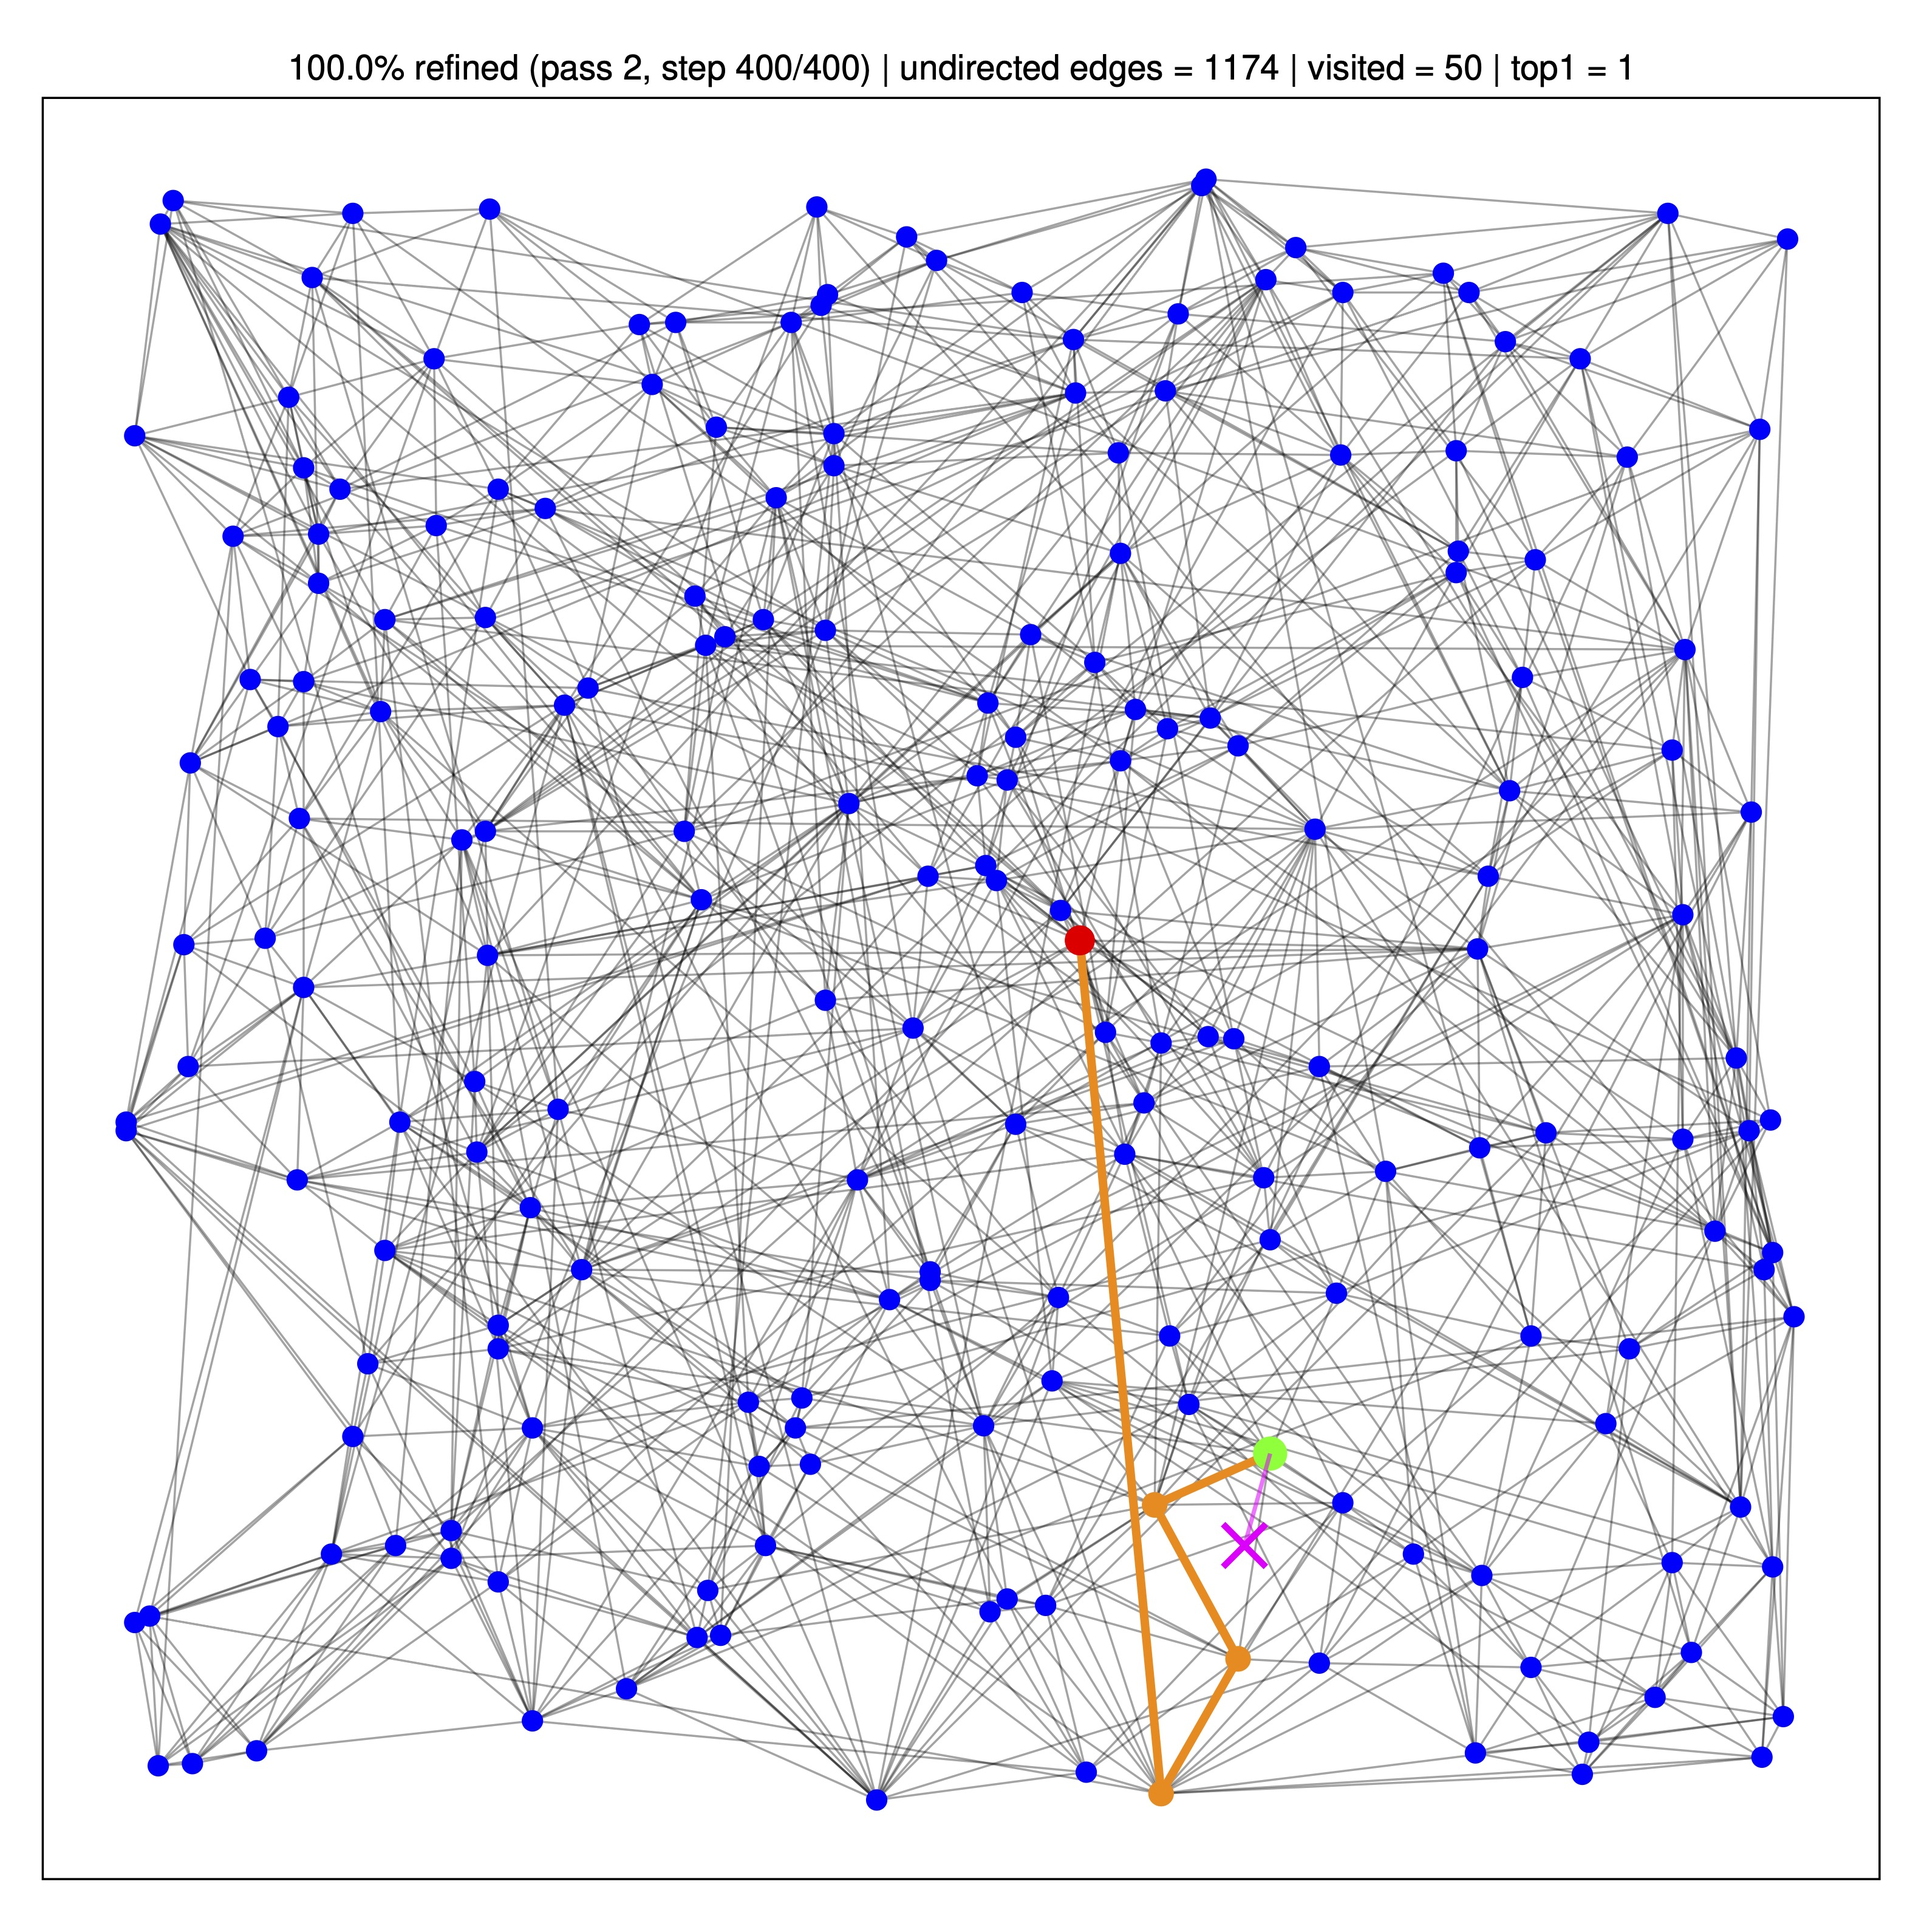
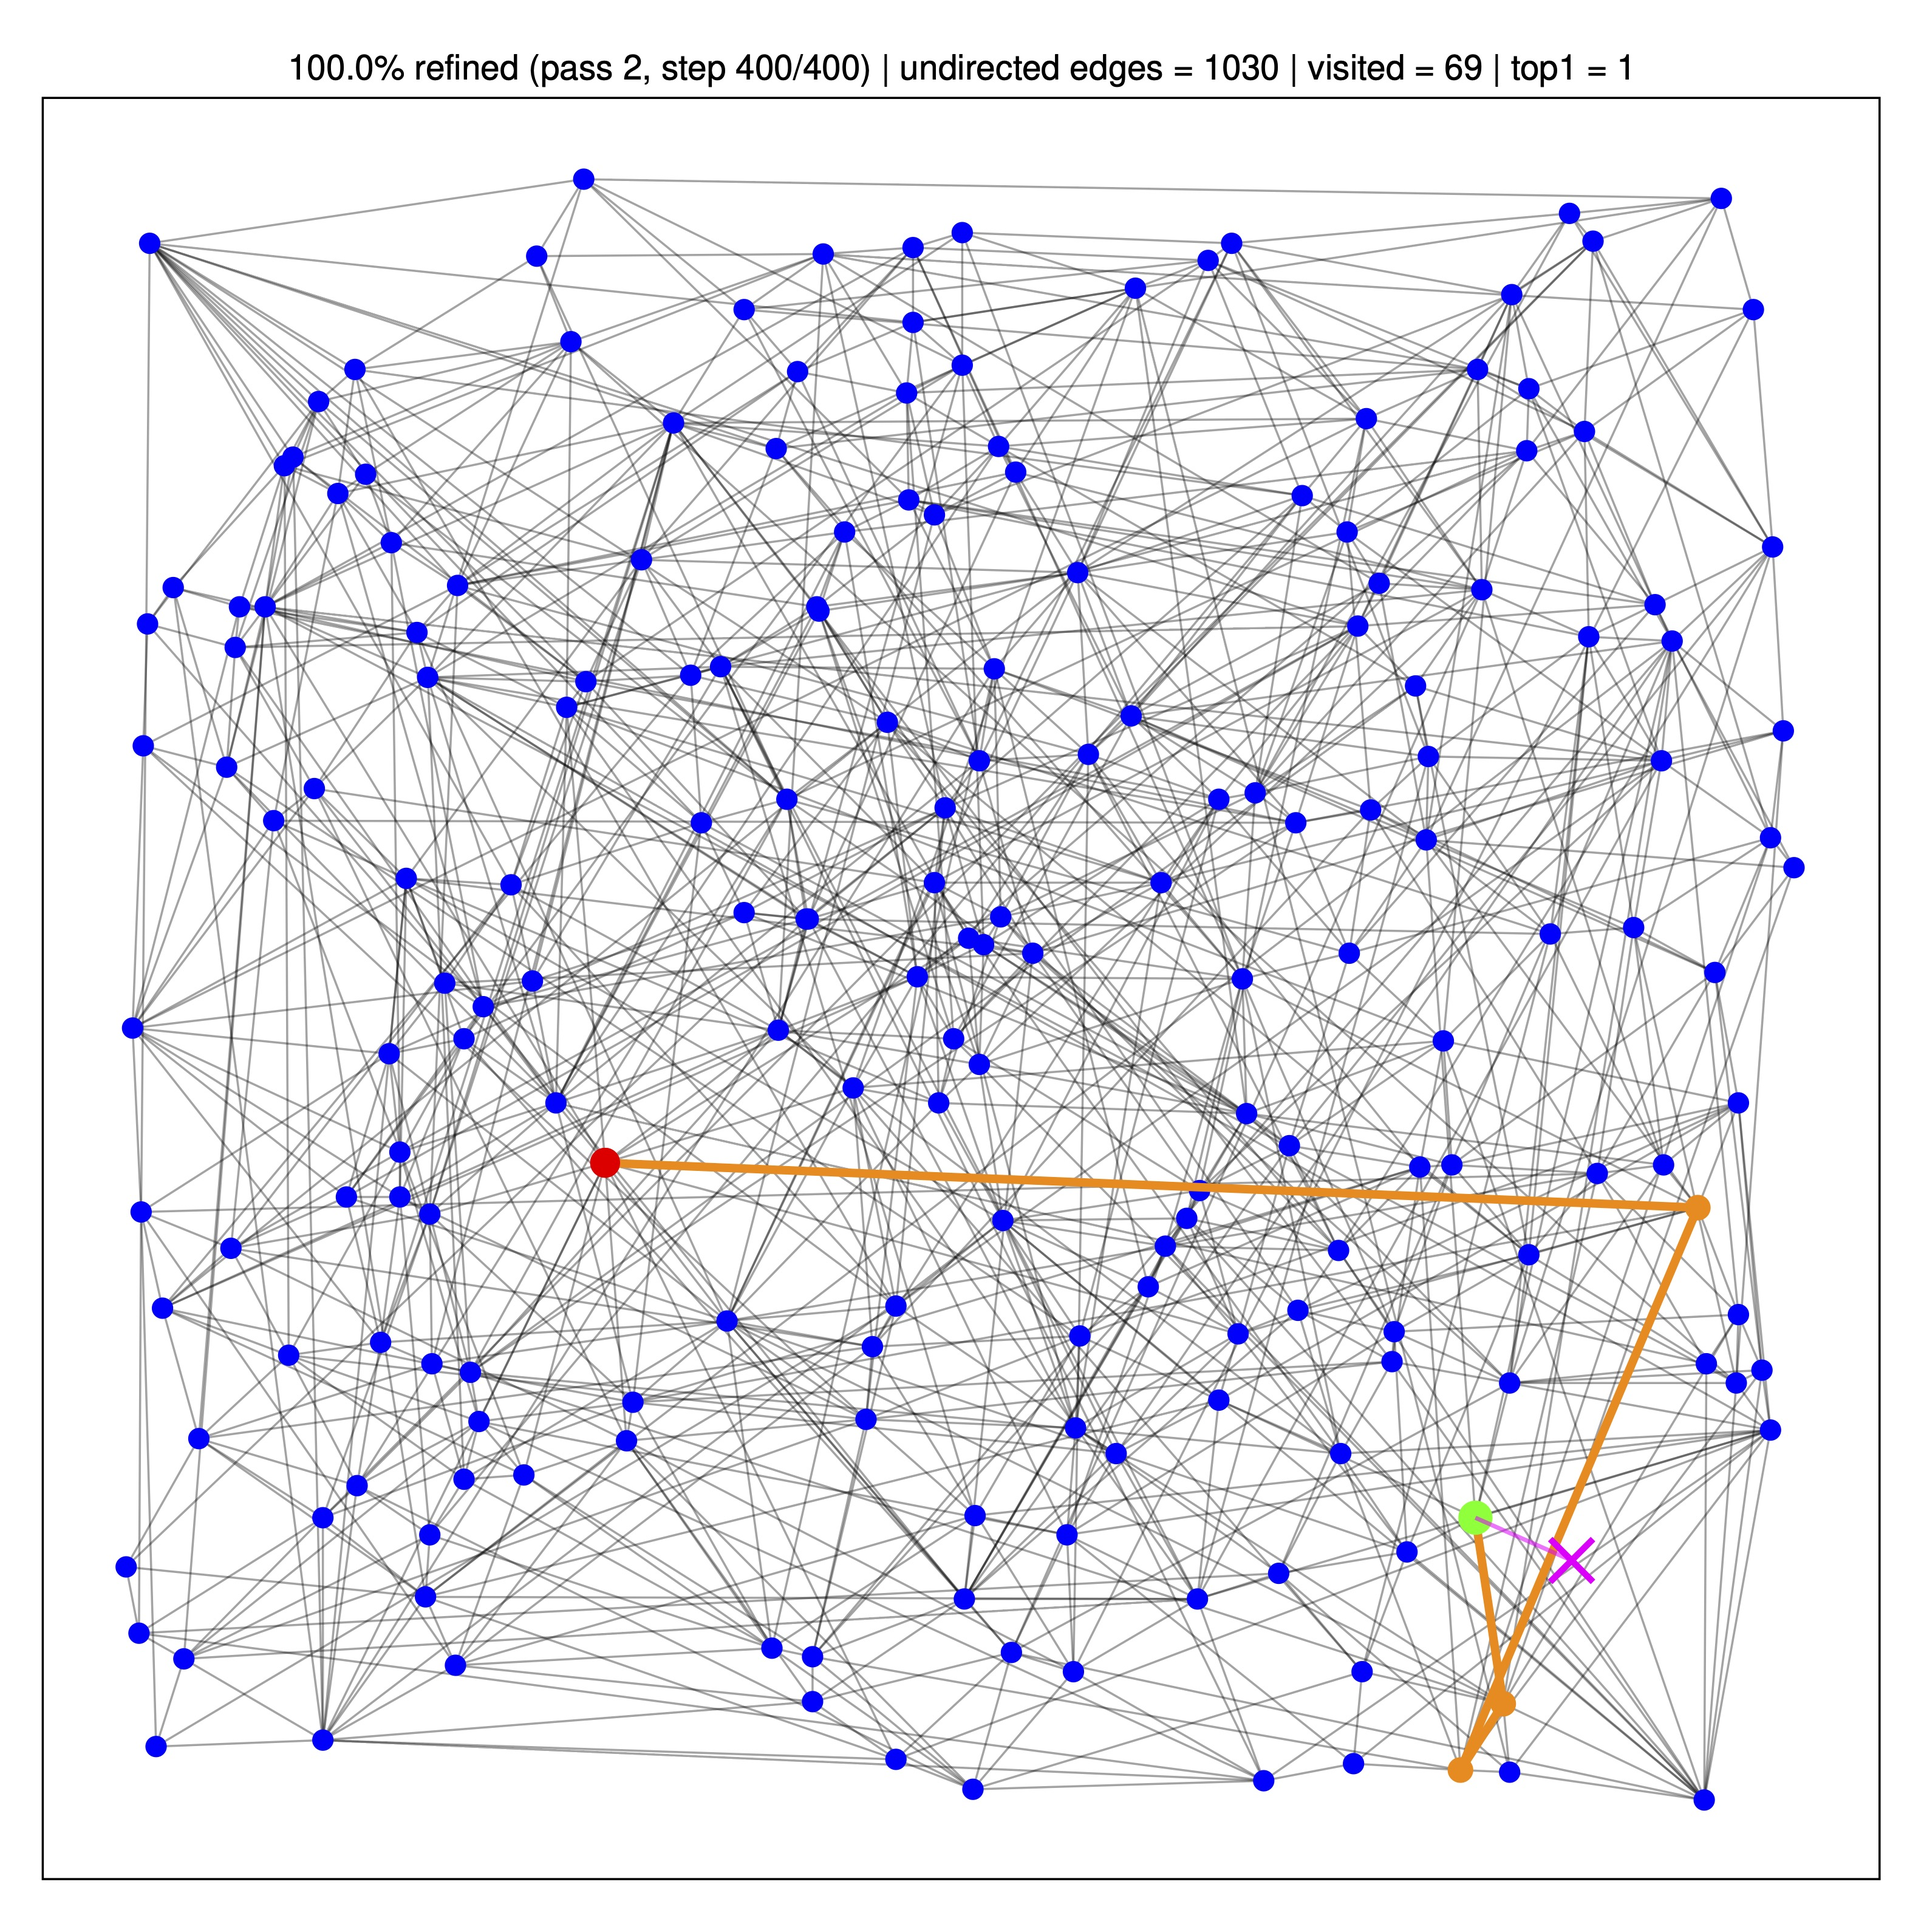
plot

diff --git a/src/lib.rs b/src/lib.rs
@@ -55,9 +55,9 @@ pub const DISKANN_DEFAULT_MAX_DEGREE: usize = 64;
 pub const DISKANN_DEFAULT_BUILD_BEAM: usize = 128;
 pub const DISKANN_DEFAULT_ALPHA: f32 = 1.2;
 /// Default number of refinement passes during graph build
-pub const DISKANN_DEFAULT_PASSES: usize = 2;
+pub const DISKANN_DEFAULT_PASSES: usize = 1;
 /// Default number of extra random seeds per node per pass during graph build
-pub const DISKANN_DEFAULT_EXTRA_SEEDS: usize = 2;
+pub const DISKANN_DEFAULT_EXTRA_SEEDS: usize = 1;
 
 /// Practical DiskANN-style slack before reverse-neighbor re-pruning.
 /// Legacy C++ DiskANN allows reverse lists to grow to about GRAPH_SLACK_FACTOR * R
@@ -724,12 +724,7 @@ where
     best_idx
 }
 
-/// Build Vamana-like graph using:
-/// - flat contiguous vectors
-/// - per-worker reusable scratch
-/// - dense visited marks
-/// - ordered beams instead of BinaryHeap for build-time greedy search
-/// - batched parallel symmetrization-and-repruning
+/// Build Vamana-like graph
 fn build_vamana_graph<T, D>(
     vectors: &FlatVectors<T>,
     max_degree: usize,
